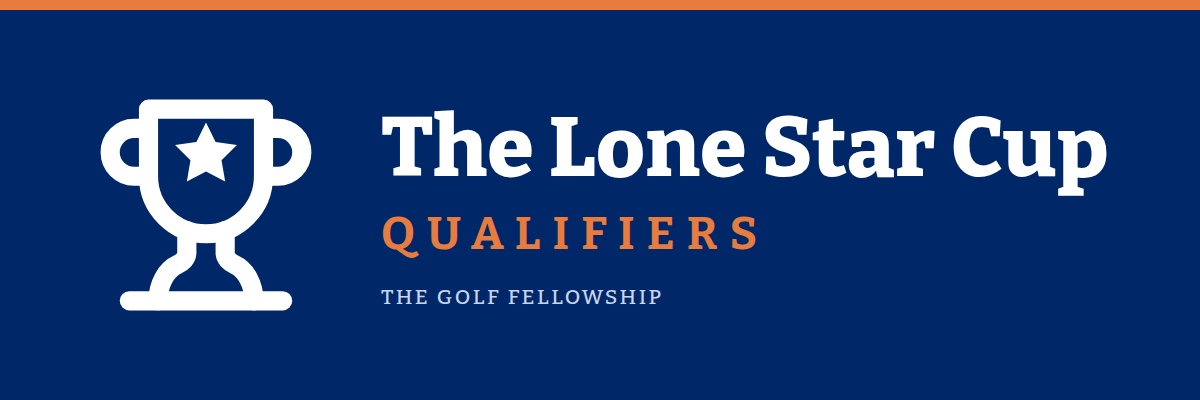
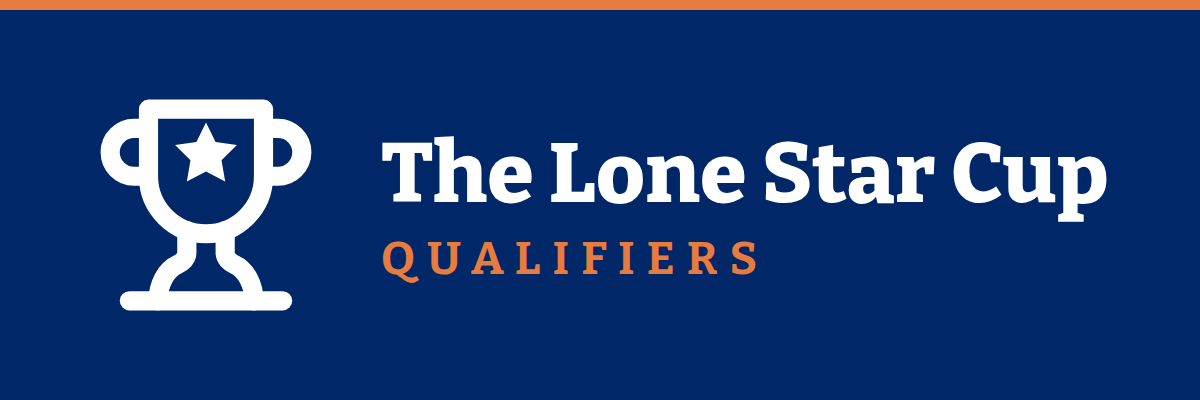
style: drop the site line from all three preview cards (v2.255.5)
Claude-Session: https://claude.ai/code/session_012FvSk9DKuqXMEcTJxKdnKy

Changed region(s): [[0.3083, 0.27, 0.925, 0.57], [0.3083, 0.54, 0.6475, 0.78]]

diff --git a/transaction-tracker/templates/contests.html b/transaction-tracker/templates/contests.html
@@ -23,17 +23,17 @@
     {% if lsc_landing %}
     {% set og_title = "The Lone Star Cup Qualifiers" %}
     {% set og_desc = "Austin vs San Antonio — projected rosters live from today's standings, plus points races and Match Play." %}
-    {% set og_image = "/static/og-lone-star-cup.png?v=401" %}
+    {% set og_image = "/static/og-lone-star-cup.png?v=402" %}
     {% elif mp_landing %}
     {% set og_title = "City Match Play — " ~ mp_landing %}
     {% set og_desc = "Follow the matches live — hole-by-hole scorecards, running margins, and the bracket." %}
-    {% set og_image = "/static/og-match-play.png?v=401" %}
+    {% set og_image = "/static/og-match-play.png?v=402" %}
     {% else %}
     {% set og_title = "TGF Leaderboard" %}
     {% set og_desc = "Points races, Match Play, and the Lone Star Cup — live standings for San Antonio & Austin." %}
     {# Wide banner, not the bare app icon — iMessage renders a square
        512px og:image as a huge card (Kerry 2026-08-21: "Way too big"). #}
-    {% set og_image = "/static/og-leaderboard.png?v=401" %}
+    {% set og_image = "/static/og-leaderboard.png?v=402" %}
     {% endif %}
     {% include "_og_meta.html" %}
     <link rel="stylesheet" href="/static/css/dashboard.css?v={{ app_version }}">

diff --git a/transaction-tracker/static/js/version.js b/transaction-tracker/static/js/version.js
@@ -1,5 +1,12 @@
-window.TGF_VERSION = "2.255.4";
+window.TGF_VERSION = "2.255.5";
 window.TGF_CHANGELOG = [
+  {
+    version: "2.255.5",
+    date: "2026-08-21",
+    changes: [
+      "The small 'THE GOLF FELLOWSHIP' site line is removed from all three link-preview cards (Kerry: 'Remove THE GOLF FELLOWSHIP from all 3') — the Lone Star Cup and Match Play cards now match the Leaderboard card: icon + title + colored subtitle only. Cache-buster bumped to ?v=402.",
+    ],
+  },
   {
     version: "2.255.4",
     date: "2026-08-21",
